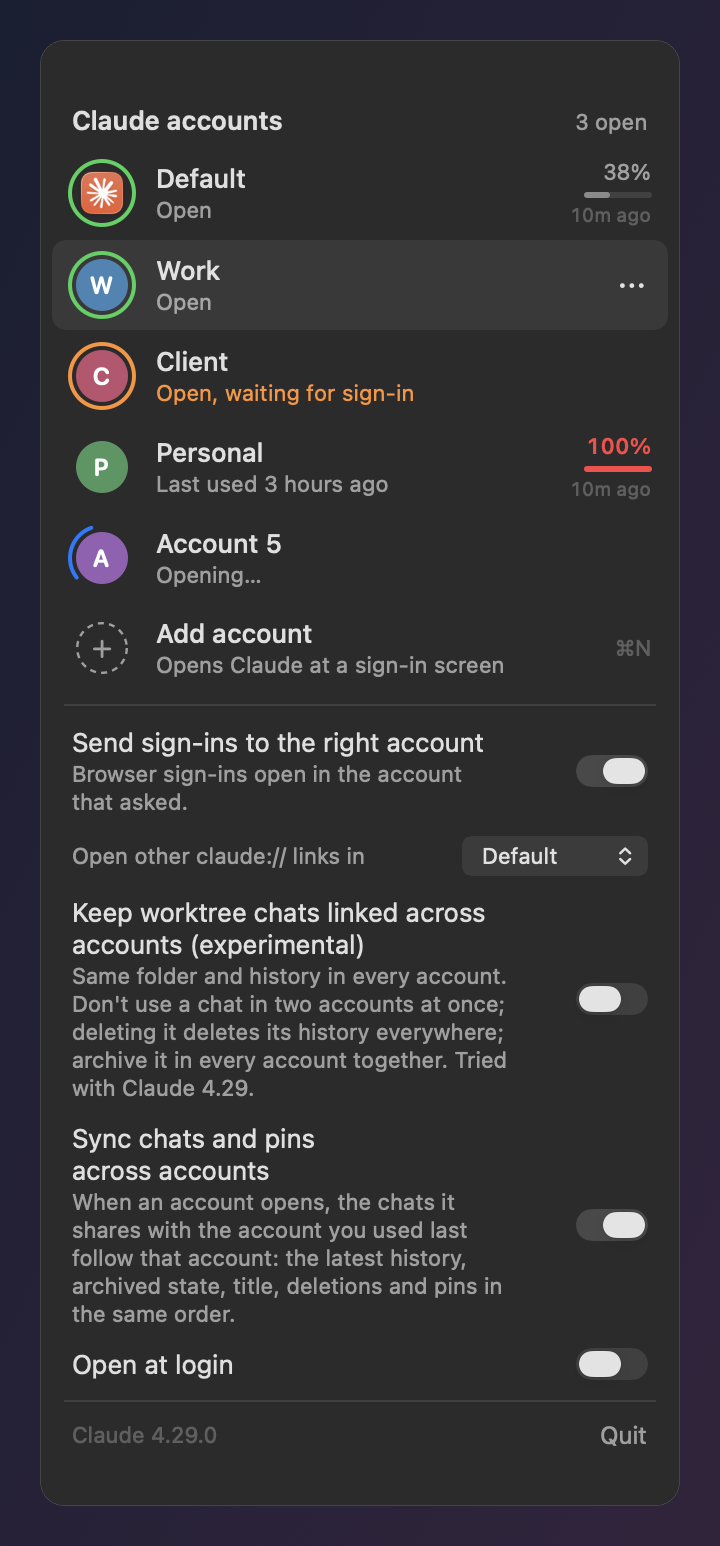
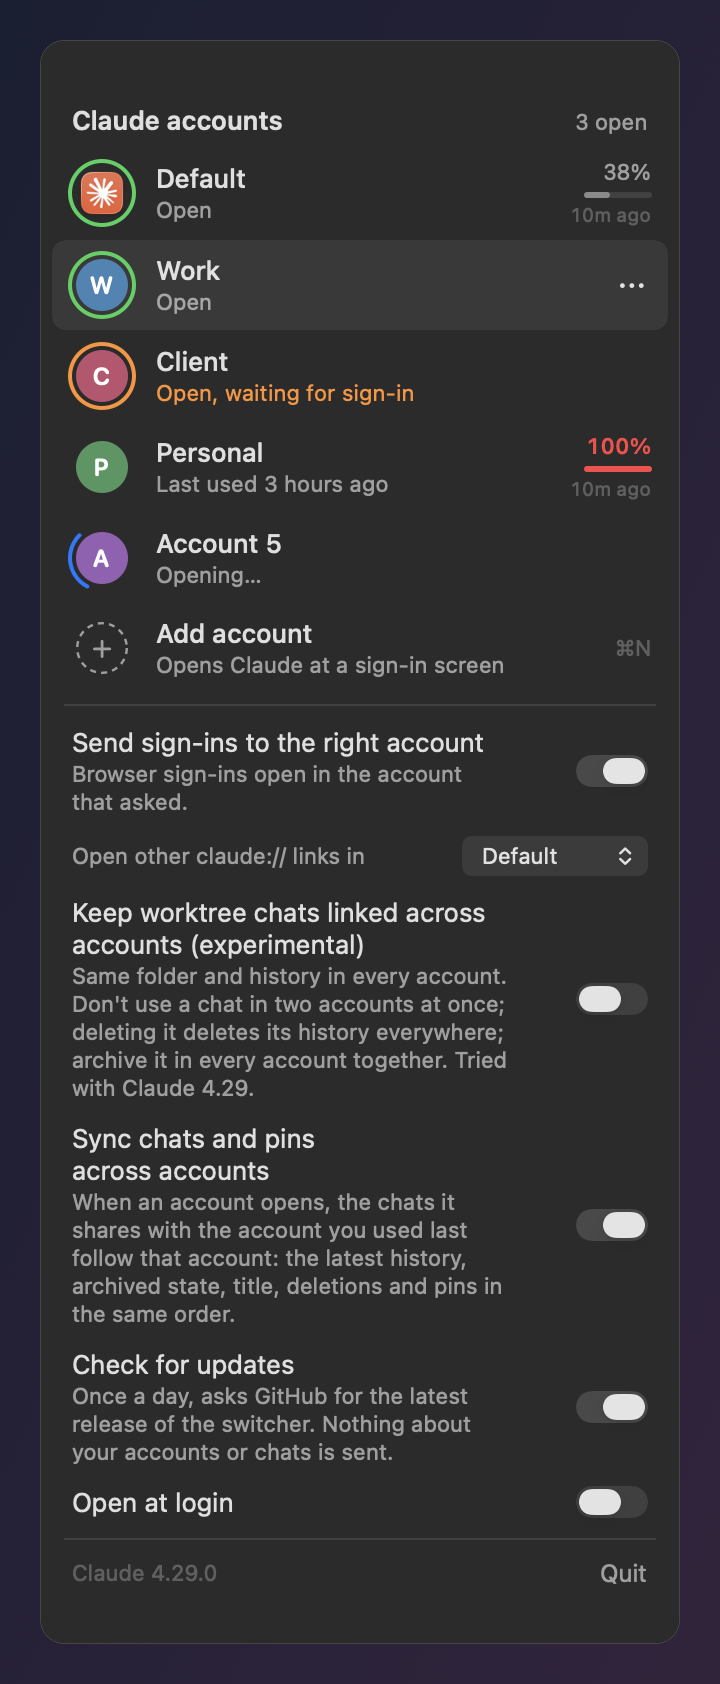
Tell the user when a newer release is out (1.3.0)
Once a day, while Check for updates is on (the default), the switcher asks
GitHub for its latest release and shows a note in the panel when it is newer.
Update runs `brew upgrade --cask` in Terminal for a Homebrew install and opens
the release page otherwise; the cross hides the note until the next release.

It is the switcher's only network request: no cookies or credentials, a
User-Agent naming the version, nothing about accounts or chats. Only a plain
vMAJOR.MINOR.PATCH tag of a published, non-prerelease release is accepted,
and whatever the switcher opens is built from that version, never from the
response. A failed check is retried an hour later. The switcher never
downloads or replaces itself.

README, SECURITY.md and CHANGELOG say what is sent and how to turn it off.

diff --git a/Sources/ClaudeProfileSwitcher/AppDelegate.swift b/Sources/ClaudeProfileSwitcher/AppDelegate.swift
@@ -29,6 +29,11 @@ final class AppDelegate: NSObject, NSApplicationDelegate {
     private var linksLedger: LinksLedger?
     /// Chats already reported as open in two accounts; cleared once the condition goes away.
     private var warnedOpenTwice: Set<String> = []
+    /// Ticks hourly; a request goes out only once a day (see UpdateCheck).
+    private var updateTimer: Timer?
+    private var checkingUpdates = false
+    private var updateOffer: AppVersion?
+    private var appVersion: String { Bundle.main.infoDictionary?["CFBundleShortVersionString"] as? String ?? "dev" }
 
     func applicationWillFinishLaunching(_ notification: Notification) {
         // Everything before any URL arrives: when Launch Services starts the app to hand it
@@ -83,6 +88,63 @@ final class AppDelegate: NSObject, NSApplicationDelegate {
         switcher?.retakeRouterIfNeeded()
         updateOpenTwiceTimer()
         if linkingOn { scanSharedChats() }
+        updateTimer = Timer.scheduledTimer(withTimeInterval: 3600, repeats: true) { [weak self] _ in self?.checkForUpdates() }
+        // Not during start-up work: a little later, and quietly when offline.
+        DispatchQueue.main.asyncAfter(deadline: .now() + 10) { [weak self] in self?.checkForUpdates() }
+    }
+
+    // MARK: Updates
+
+    /// Asks GitHub when a check is due (once a day) and the setting is on; what it found shows as a note.
+    private func checkForUpdates() {
+        guard let sw = switcher else { return }
+        guard sw.settings.checkForUpdates else { setUpdateOffer(nil); return }
+        if checkingUpdates { return }
+        checkingUpdates = true
+        let file = sw.paths.updateState, current = appVersion
+        DispatchQueue.global(qos: .utility).async { [weak self] in
+            let found = UpdateCheck.run(state: UpdateState(file: file), current: current, fetch: UpdateCheck.fetch)
+            DispatchQueue.main.async {
+                guard let self else { return }
+                self.checkingUpdates = false
+                // The setting may have been turned off meanwhile.
+                self.setUpdateOffer(self.switcher?.settings.checkForUpdates == true ? found : nil)
+            }
+        }
+    }
+
+    private func setUpdateOffer(_ version: AppVersion?) {
+        updateOffer = version
+        if state.updateAvailable != version?.description { state.updateAvailable = version?.description }
+    }
+
+    /// A Homebrew install upgrades in Terminal, where its progress and any password prompt show; anything
+    /// else gets the release page. Both are built from the checked version only.
+    private func performUpdate() {
+        guard let sw = switcher, let version = updateOffer else { return }
+        panel.close()
+        if let brew = UpdateCheck.brew() {
+            let script = sw.paths.upgradeScript
+            do {
+                try FileManager.default.createDirectory(at: script.deletingLastPathComponent(), withIntermediateDirectories: true,
+                                                        attributes: [.posixPermissions: 0o700])
+                try UpdateCheck.upgradeScript(brew: brew).write(to: script, atomically: true, encoding: .utf8)
+                chmod(script.path, 0o700)
+                if NSWorkspace.shared.open(script) { return }
+            } catch {
+                sw.logError("Update script not written: \(Switcher.describe(error))")
+            }
+        }
+        NSWorkspace.shared.open(UpdateCheck.releasePage(version))
+    }
+
+    private func dismissUpdate() {
+        guard let sw = switcher, let version = updateOffer else { return }
+        let file = sw.paths.updateState
+        let saved = UpdateState(file: file)
+        saved.dismissed = version
+        saved.save()
+        setUpdateOffer(nil)
     }
 
     @objc private func togglePanel() { panel.toggle() }
@@ -148,6 +210,7 @@ final class AppDelegate: NSObject, NSApplicationDelegate {
         let linking = sw.settings["LinkWorktreeChats"] as? Bool == true
         set(\.linkChats, linking)
         set(\.syncPins, sw.settings.syncPins)
+        set(\.checkUpdates, sw.settings.checkForUpdates)
         set(\.pinSyncProblems, { let blocked = sw.restoreBlocked; return sw.pinSyncProblems.sorted { $0.key < $1.key }.map { PinSyncNote(id: $0.key, text: $0.value, restoreBlock: blocked.contains($0.key)) } }())
         updateOpenTwiceTimer()
         if sharedChatsModel.linkEnabled != linking { sharedChatsModel.linkEnabled = linking }
@@ -237,6 +300,13 @@ final class AppDelegate: NSObject, NSApplicationDelegate {
             self?.save("SyncPins", on)
             self?.refresh()
         }
+        a.setCheckUpdates = { [weak self] on in
+            self?.save("CheckForUpdates", on)
+            self?.refresh()
+            self?.checkForUpdates()
+        }
+        a.update = { [weak self] in self?.performUpdate() }
+        a.dismissUpdate = { [weak self] in self?.dismissUpdate() }
         a.quit = { NSApp.terminate(nil) }
         a.downloadClaude = { NSWorkspace.shared.open(URL(string: "https://claude.ai/download")!) }
         state.actions = a

diff --git a/Sources/ClaudeProfileSwitcher/Panel/PanelView.swift b/Sources/ClaudeProfileSwitcher/Panel/PanelView.swift
@@ -14,6 +14,7 @@ struct PanelView: View {
             } else {
                 header
                 if let error = state.errorMessage { ErrorBanner(text: error) { state.errorMessage = nil } }
+                if let version = state.updateAvailable { UpdateNotice(version: version, actions: state.actions) }
                 if state.showRoutingBanner { RoutingBanner(actions: state.actions) }
                 if state.usagePaused && !state.usageNoticeDismissed {
                     UsagePausedNotice(openCount: state.openCount) { state.usageNoticeDismissed = true }
@@ -451,6 +452,10 @@ struct SettingsSection: View {
                     .foregroundStyle(.secondary)
                     .fixedSize(horizontal: false, vertical: true)
             }
+            ToggleRow(title: L("Check for updates", "Güncellemeleri denetle"),
+                      detail: L("Once a day, asks GitHub for the latest release of the switcher. Nothing about your accounts or chats is sent.",
+                                "Günde bir kez, switcher'ın en son sürümünü GitHub'a sorar. Hesaplarınız veya sohbetleriniz hakkında hiçbir şey gönderilmez."),
+                      isOn: Binding(get: { state.checkUpdates }, set: { state.actions.setCheckUpdates($0) }))
             ToggleRow(title: L("Open at login", "Oturum açılışında başlat"), detail: nil,
                       isOn: Binding(get: { state.loginItem }, set: { state.actions.setLogin($0) }))
         }
@@ -552,6 +557,32 @@ struct UsagePausedNotice: View {
         }
         .padding(10)
         .background(RoundedRectangle(cornerRadius: 9, style: .continuous).fill(Color.primary.opacity(0.06)))
+        .padding(.horizontal, 10)
+        .padding(.bottom, 6)
+    }
+}
+
+/// A newer release is out. **Update** upgrades a Homebrew install in Terminal, or opens the release page; the
+/// cross hides the note until the next release.
+struct UpdateNotice: View {
+    let version: String
+    let actions: PanelActions
+
+    var body: some View {
+        HStack(alignment: .center, spacing: 8) {
+            Image(systemName: "arrow.down.circle.fill").foregroundStyle(Color.accentColor)
+            Text(L("Claude Profile Switcher \(version) is available", "Claude Profile Switcher \(version) çıktı"))
+                .font(.system(size: 12, weight: .semibold))
+                .fixedSize(horizontal: false, vertical: true)
+            Spacer(minLength: 0)
+            Button(L("Update", "Güncelle"), action: actions.update).controlSize(.small)
+            Button(action: actions.dismissUpdate) { Image(systemName: "xmark").font(.system(size: 9, weight: .bold)) }
+                .buttonStyle(.plain)
+                .foregroundStyle(.secondary)
+                .accessibilityLabel(L("Dismiss", "Kapat"))
+        }
+        .padding(10)
+        .background(RoundedRectangle(cornerRadius: 9, style: .continuous).fill(Color.accentColor.opacity(0.1)))
         .padding(.horizontal, 10)
         .padding(.bottom, 6)
     }

diff --git a/Tests/SwitcherCoreTests/UpdateCheckTests.swift b/Tests/SwitcherCoreTests/UpdateCheckTests.swift
@@ -169,4 +169,23 @@ final class UpdateCheckTests: XCTestCase {
         let odd = UpdateCheck.upgradeScript(brew: URL(fileURLWithPath: "/a'b/bin/brew"))
         XCTAssertTrue(odd.contains("'/a'\\''b/bin/brew'"), odd)
     }
+
+    // MARK: setting and paths
+
+    func testCheckForUpdatesDefaultsOn() throws {
+        let settings = Settings(file: home.appendingPathComponent("settings.json"))
+        XCTAssertTrue(settings.checkForUpdates)
+        try settings.set("CheckForUpdates", false)
+        XCTAssertFalse(settings.checkForUpdates)
+        try settings.set("CheckForUpdates", true)
+        XCTAssertTrue(settings.checkForUpdates)
+    }
+
+    func testTheStateAndScriptLiveInTheSwitchersFolder() {
+        let paths = Paths(home: home)
+        XCTAssertEqual(paths.updateState.deletingLastPathComponent(), paths.switcherHome)
+        XCTAssertEqual(paths.updateState.lastPathComponent, "update-check.json")
+        XCTAssertEqual(paths.upgradeScript.deletingLastPathComponent(), paths.switcherHome)
+        XCTAssertEqual(paths.upgradeScript.pathExtension, "command")
+    }
 }

diff --git a/Sources/ClaudeProfileSwitcher/Panel/PanelState.swift b/Sources/ClaudeProfileSwitcher/Panel/PanelState.swift
@@ -85,6 +85,10 @@ struct PanelActions {
     var setLinkChats: (Bool) -> Void = { _ in }
     var linkAll: () -> Void = {}
     var setSyncPins: (Bool) -> Void = { _ in }
+    var setCheckUpdates: (Bool) -> Void = { _ in }
+    /// Runs `brew upgrade` in Terminal for a Homebrew install, otherwise opens the release page.
+    var update: () -> Void = {}
+    var dismissUpdate: () -> Void = {}
     var quit: () -> Void = {}
     var downloadClaude: () -> Void = {}
 }
@@ -102,6 +106,9 @@ final class PanelState: ObservableObject {
     @Published var loginItem = false
     @Published var linkChats = false
     @Published var syncPins = true
+    @Published var checkUpdates = true
+    /// A newer release to tell the user about ("1.3.0"), nil when there is none or its note was closed.
+    @Published var updateAvailable: String?
     /// Why pin sync is refused for a lasting reason, shown under its toggle; nil when there is none.
     /// One note per account (the account's id is the stable identity of a row).
     @Published var pinSyncProblems: [PinSyncNote] = []

diff --git a/Sources/SwitcherCore/Paths.swift b/Sources/SwitcherCore/Paths.swift
@@ -33,6 +33,10 @@ public struct Paths {
 
     /// Copies of an account's pin databases taken before the switcher writes them, newest five per account.
     public var pinStoreBackups: URL { switcherHome.appendingPathComponent("backups/pinstore", isDirectory: true) }
+    /// When the update check last ran, what it found, and the release whose note was closed.
+    public var updateState: URL { switcherHome.appendingPathComponent("update-check.json") }
+    /// The Terminal script **Update** opens for a Homebrew install.
+    public var upgradeScript: URL { switcherHome.appendingPathComponent("Update Claude Profile Switcher.command") }
 
     /// Launcher apps go where Spotlight and Launchpad look, without needing admin rights.
     public var launcherDir: URL { home.appendingPathComponent("Applications", isDirectory: true) }

diff --git a/Sources/SwitcherCore/Settings.swift b/Sources/SwitcherCore/Settings.swift
@@ -87,6 +87,9 @@ public final class Settings {
     /// Pins of shared chats follow the account used last when an account opens. Absent means on.
     public var syncPins: Bool { self["SyncPins"] as? Bool != false }
 
+    /// Once a day, ask GitHub for the latest release and say when one is newer. Absent means on.
+    public var checkForUpdates: Bool { self["CheckForUpdates"] as? Bool != false }
+
     /// Extra environment for one account's Claude, from "ProfileEnv": { "<id>": { "NAME": "value" } }.
     /// Names must be letters, digits and _, not starting with a digit; others are skipped.
     public func profileEnv(_ id: String) -> [String: String] {

diff --git a/README.md b/README.md
@@ -25,7 +25,7 @@
 <p align="center">
   <picture>
     <source media="(prefers-color-scheme: dark)" srcset="docs/images/panel-dark.png">
-    <img src="docs/images/panel-light.png" width="360" alt="The panel under the menu bar icon: five accounts with coloured badges. Default and Work have a green ring (open), Client an orange one (open, waiting for sign-in), Account 5 a spinning ring (opening), Personal none (closed). Default shows 38% and Personal 100% of the 5-hour limit. Below: Add account, the sign-in routing switch with a picker for other links, the experimental switch to keep worktree chats linked across accounts, Sync chats and pins across accounts, and Open at login.">
+    <img src="docs/images/panel-light.png" width="360" alt="The panel under the menu bar icon: five accounts with coloured badges. Default and Work have a green ring (open), Client an orange one (open, waiting for sign-in), Account 5 a spinning ring (opening), Personal none (closed). Default shows 38% and Personal 100% of the 5-hour limit. Below: Add account, the sign-in routing switch with a picker for other links, the experimental switch to keep worktree chats linked across accounts, Sync chats and pins across accounts, Check for updates, and Open at login.">
   </picture>
 </p>
 
@@ -108,7 +108,7 @@ Three things about Claude on macOS shape the design (as observed with Claude Des
 | **Launchers** | `Claude - Work.app` in `~/Applications` with a coloured badge, for Spotlight, Launchpad and the Dock. |
 | **Per-account environment** | Environment variables and launch flags for one account's Claude, for example for an MCP server. |
 | **Your original stays put** | The account you already have keeps its folder, auto update and settings. The switcher writes there only while that account is closed and after a backup: when you transfer chats into it, when chat and pin sync bring the shared chats over as it opens it (their records and Claude's own pin list, see [Keeping shared chats the same](#keeping-shared-chats-the-same) and [Pins](#pins)), or, with linking on, when a chat is linked. |
-| **Native and small** | Swift and AppKit, one universal binary, no dependencies, no network access, English and Turkish. |
+| **Native and small** | Swift and AppKit, one universal binary, no dependencies, English and Turkish. Its only network request is a once-a-day update check you can turn off. |
 
 ## Install
 
@@ -136,6 +136,15 @@ xattr -dr com.apple.quarantine "/Applications/Claude Profile Switcher.app"
 ```
 
 The second line tells Gatekeeper you trust this download; do it only for a zip whose checksum matched.
+
+### Updating
+
+Once a day the switcher asks GitHub for its latest release, and when one is newer the panel says so
+(**Claude Profile Switcher 1.x.y is available**). **Update** runs `brew upgrade --cask claude-profile-switcher`
+in Terminal for a Homebrew install, which quits the app, upgrades it and opens it again; for any other
+install it opens the release page. The cross hides the note until the next release. The switcher never
+downloads or replaces itself. Turn the check off with **Check for updates** in the panel (`CheckForUpdates`
+in `settings.json`); with it off, the switcher makes no network requests at all.
 
 ### Build from source
 
@@ -179,6 +188,8 @@ make install    # builds, copies to ~/Applications, opens it
 | Send sign-ins to the right account | Sign-in routing on or off. Hidden until there is a second account. |
 | Open other claude:// links in | Where links that are not sign-ins go while routing is on. |
 | Sync chats and pins across accounts | Chat and pin sync on or off (on by default). Hidden until there is a second account. See [Keeping shared chats the same](#keeping-shared-chats-the-same) and [Pins](#pins). |
+| Check for updates | The once-a-day update check on or off (on by default). See [Updating](#updating). |
+| *Claude Profile Switcher 1.x.y is available* | Shown when a newer release is out: **Update**, or the cross to hide it until the next one. |
 
 Renaming and deleting happen in the row itself: type the new name and press Return, or confirm the move
 to the Trash. An account whose Claude is open cannot be deleted.
@@ -561,6 +572,7 @@ writes most of them; two are for hand editing:
 | `ClaudePath` | Set by `--claude-path`. |
 | `SyncPins` | `false` turns off chat and pin sync when the switcher opens an account (it does not affect the pins a chat transfer carries); absent or `true` means on. Set from the panel. |
 | `LinkWorktreeChats` | `true` when worktree chat linking is on; absent means off. Set from the panel. |
+| `CheckForUpdates` | `false` turns off the update check, and with it every network request the switcher makes; absent or `true` means on. Set from the panel. |
 
 If `settings.json` stops being valid JSON after a hand edit, the switcher stops saving anything and
 says so in the panel, instead of replacing the file and losing your other settings.
@@ -584,6 +596,7 @@ Claude is closed.
 | Who is starting or writing which account, and accounts whose pin restore failed | `~/Library/Application Support/Claude Profile Switcher/claims.json` and `restore-failed.json` |
 | Backups taken before pins are written | `~/Library/Application Support/Claude Profile Switcher/backups/pinstore/<time>/<account>/`, the newest 5 per account |
 | What each account had for its shared chats at its last sync, and how their history files compare | `~/Library/Application Support/Claude Profile Switcher/chat-sync-state.json` (account and chat ids, title hashes) and `chat-sync-cache.json` (history file paths, sizes and dates) |
+| What the update check last found, and the script **Update** opens for a Homebrew install | `~/Library/Application Support/Claude Profile Switcher/update-check.json` (version numbers and a date) and `Update Claude Profile Switcher.command` |
 | Backups of chat records the chat sync changes | Next to each record, `local_<id>.json.switcher-backup-<time>`, the newest 5 per record |
 
 A profile's folder name is its permanent id: Claude stores absolute paths inside its data, so
@@ -607,7 +620,13 @@ renaming changes only the label.
   sent. Chat records are read to list and copy them. Transcripts are read only to compare the copies of a shared chat (message ids and times); their text is never stored, logged or sent.
 - **Links are validated**: only `claude://` followed by ordinary URL characters, up to 2048 of them.
   The switcher's own `claudeprofileswitcher://` links can only open an existing profile.
-- **No network access**, no analytics, no updater. The only thing that leaves your Mac is what Claude
+- **One network request, and only while Check for updates is on**: at most once a day (a failed one is
+  tried again an hour later), a GET of `https://api.github.com/repos/onlyilkr/claude-profile-switcher/releases/latest`,
+  without cookies or credentials. It carries what any HTTPS request does (your IP address) and a
+  User-Agent naming the switcher's version; nothing about your accounts, profiles, chats or usage. Only the
+  release's version number is read from the answer, and the release page or `brew upgrade` the switcher
+  opens is built from that number, never from a link in the answer. There are no analytics and the
+  switcher never downloads or installs anything itself. Everything else that leaves your Mac is what Claude
   itself sends.
 
 See [SECURITY.md](SECURITY.md) for the full list of what the app touches and how to report a problem.

diff --git a/SECURITY.md b/SECURITY.md
@@ -30,9 +30,10 @@ Knowing this helps judge whether something is in scope:
 | `~/Library/Application Support/Claude Profile Switcher/links.json` | Link ledger | The switcher's own list of what it wrote, so Unlink removes exactly that |
 | `~/Applications/Claude - <name>.app` | Launchers | Created and removed only if they carry the switcher's marker |
 | Launch Services | `claude://` handler | Changed only while sign-in routing is on; given back when it is turned off |
-| `~/Library/Application Support/Claude Profile Switcher` | Settings, logs | The switcher's own files, including `chat-sync-state.json` (account and chat ids, title hashes) and `chat-sync-cache.json` (history file paths, sizes and dates) |
+| `https://api.github.com/repos/onlyilkr/claude-profile-switcher/releases/latest` | Update check | Only while **Check for updates** is on (the default): at most once a day, a GET without cookies or credentials, with a User-Agent naming the switcher's version. Only `tag_name` of a published, non-prerelease release is read, and only as `vMAJOR.MINOR.PATCH`; the release page or `brew upgrade` it offers is built from that version, never from the response. Nothing is downloaded or installed by the switcher |
+| `~/Library/Application Support/Claude Profile Switcher` | Settings, logs | The switcher's own files, including `update-check.json` (version numbers and a date), the Terminal script **Update** writes for a Homebrew install (it runs only the fixed `brew upgrade --cask claude-profile-switcher` and reopens the app), `chat-sync-state.json` (account and chat ids, title hashes) and `chat-sync-cache.json` (history file paths, sizes and dates) |
 
-The app makes no network requests.
+The update check above is the app's only network request; with **Check for updates** off it makes none.
 
 ## Scope
 
@@ -50,6 +51,8 @@ In scope:
 - Leaking secrets: a sign-in link, token, cookie or chat content written to a log, the panel, the
   command line output or the network.
 - Supply-chain issues in the release pipeline (unpinned actions, tampered checksums or cask).
+- An update check that sends more than described above, or a release response that makes the switcher
+  open, run or download anything other than its own release page or the fixed `brew upgrade` command.
 
 Out of scope: bugs that need an attacker who already controls your user account, and changes in Claude
 Desktop's undocumented behaviour that make a feature stop working without damaging anything (file a

diff --git a/CHANGELOG.md b/CHANGELOG.md
@@ -4,6 +4,17 @@ All notable changes to this project are documented here. The format follows
 [Keep a Changelog](https://keepachangelog.com/en/1.1.0/), and the project uses
 [Semantic Versioning](https://semver.org/).
 
+## [1.3.0] - 2026-11-10
+
+### Added
+
+- Update check, on by default (**Check for updates** in the panel, `CheckForUpdates` in `settings.json`): once
+  a day the switcher asks GitHub for its latest release, and when one is newer the panel says so. **Update**
+  runs `brew upgrade --cask claude-profile-switcher` in Terminal for a Homebrew install, and opens the release
+  page otherwise; the cross hides the note until the next release. It is the switcher's only network request:
+  no cookies or credentials, nothing about accounts or chats, only the version number is read from the
+  answer, and the switcher never downloads or replaces itself. Turning it off means no network requests.
+
 ## [1.2.0] - 2026-11-10
 
 Shared chats now stay the same across accounts as you switch, and a chat Claude resumed under a new
@@ -193,6 +204,7 @@ First public release: a macOS port of
   `--route-sign-ins`, `--revert`, `--open-link`, `--open-links-in`, `--claude-path`.
 - English and Turkish, following the system language.
 
+[1.3.0]: https://github.com/onlyilkr/claude-profile-switcher/releases/tag/v1.3.0
 [1.2.0]: https://github.com/onlyilkr/claude-profile-switcher/releases/tag/v1.2.0
 [1.1.1]: https://github.com/onlyilkr/claude-profile-switcher/releases/tag/v1.1.1
 [1.1.0]: https://github.com/onlyilkr/claude-profile-switcher/releases/tag/v1.1.0
